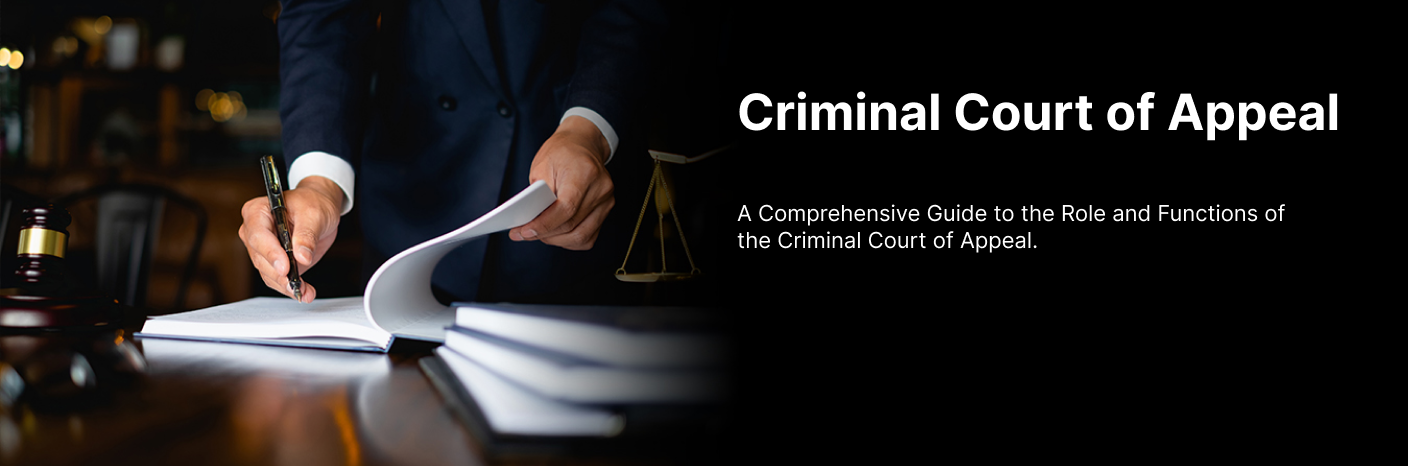
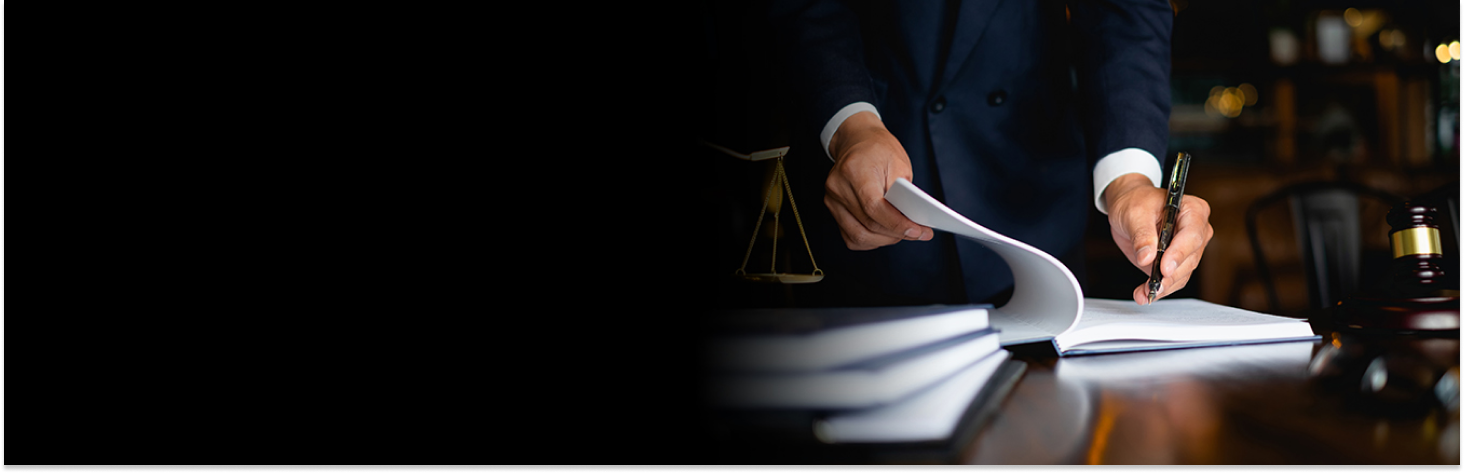
fixed header section

diff --git a/frontend/src/components/jurisdiction/index.js b/frontend/src/components/jurisdiction/index.js
@@ -5,7 +5,7 @@ import './index.css';
 
 const Jurisdiction = () => {
   return (
-    <div>
+    <div id='jurisdiction-section'>
      <div className='title'>
         <Typography  variant="h3">Jurisdiction</Typography>
      </div>   
@@ -20,16 +20,23 @@ const Jurisdiction = () => {
           final judgment only. <br />
           <strong>With the exception of:</strong>
         </Typography>
-
+        <br />
         <div className="box-container">
           <div className="box">
-            <Typography variant="body2">Box 1</Typography>
+            <Typography variant="body2">
+                The appeal of decisions that settle one or more of the formal defenses stipulated in Article 73 of
+                the Criminal Procedures Code shall be accepted.
+          </Typography>
           </div>
           <div className="box">
-            <Typography variant="body2">Box 2</Typography>
+            <Typography variant="body2">
+                Decisions by which the Single Judge terminates the lawsuit without addressing its subject matter.
+            </Typography>
           </div>
           <div className="box">
-            <Typography variant="body2">Box 3</Typography>
+            <Typography variant="body2">
+                Decisions issued on accepting or revoking the release requests.
+            </Typography>
           </div>
         </div>
       </div>

diff --git a/frontend/src/components/header/index.js b/frontend/src/components/header/index.js
@@ -1,12 +1,34 @@
-import React from 'react';
-import header from '../../images/header.png'
-import './index.css'
-const Header = () => {
-return(
+// import React from 'react';
+// import header from '../../images/header.png'
+// import './index.css'
+// const Header = () => {
+// return(
 
-    <div className='header-section'>
-        <img className='headerr' src={header} alt="header" />
+//     <div className='header-section'>
+//         <img className='headerr' src={header} alt="header" />
+//     </div>
+// )
+// }
+// export default Header
+import React from 'react';
+import './index.css';
+import Typography from '@mui/material/Typography';
+
+const Header = () => {
+  return (
+    <div className="header-section">
+      <div className="background-image">
+        <div className="text">
+            <Typography variant="h3">
+              Criminal Court of Appeal
+           </Typography><br />
+           <Typography name='body1'>
+              A Comprehensive Guide to the Role and Functions of <br /> the Criminal Court of Appeal
+           </Typography><br />
+        </div>
+      </div>
     </div>
-)
-}
-export default Header
+  );
+};
+
+export default Header;

diff --git a/frontend/src/components/header/index.css b/frontend/src/components/header/index.css
@@ -1,9 +1,13 @@
-.headerr {
+/* .headerr {
     overflow-x: hidden;
 }
 
 .header-section{
+    margin: 0;
+    padding: 0;
     margin-bottom: 2rem;
+    overflow-x: hidden;
+
 }
 
 @media only screen and (max-width: 768px) {
@@ -11,4 +15,50 @@
         max-width: 100%;
     }
 
+} */
+
+.header-section {
+    margin: 0;
+    padding: 0;
+    margin-bottom: 2rem;
+    overflow-x: hidden;
+    position: relative;
+    background-color: black;
+    color: white;
+}
+
+.background-image {
+    background-image: url('../../images/header.png');
+    background-size: cover;
+    background-position: center;
+    width: 100%;
+    max-width: 100%;
+    height: 400px;
+    position: relative;
+}
+
+.text {
+    color: white;
+    position: absolute;
+    top: 10px;
+    left: 10px;
+    font-size: 24px;
+    font-weight: bold;
+    margin: 3rem;
+    margin-top: 5rem;
+}
+
+@media only screen and (max-width: 768px) {
+    .header-section {
+        max-width: 100%;
+    }
+
+    .background-image {
+        max-width: 100%;
+    }
+
+    .text {
+        top: 5px;
+        left: 5px;
+    }
 }

diff --git a/frontend/src/components/definition/index.js b/frontend/src/components/definition/index.js
@@ -1,8 +1,6 @@
 import React from 'react';
 import Typography from '@mui/material/Typography';
 import icon from "../../images/arrow.png";
-import Tabs from '@mui/material/Tabs';
-import Tab from '@mui/material/Tab';
 import './index.css';
 
 const Definition = () => {
